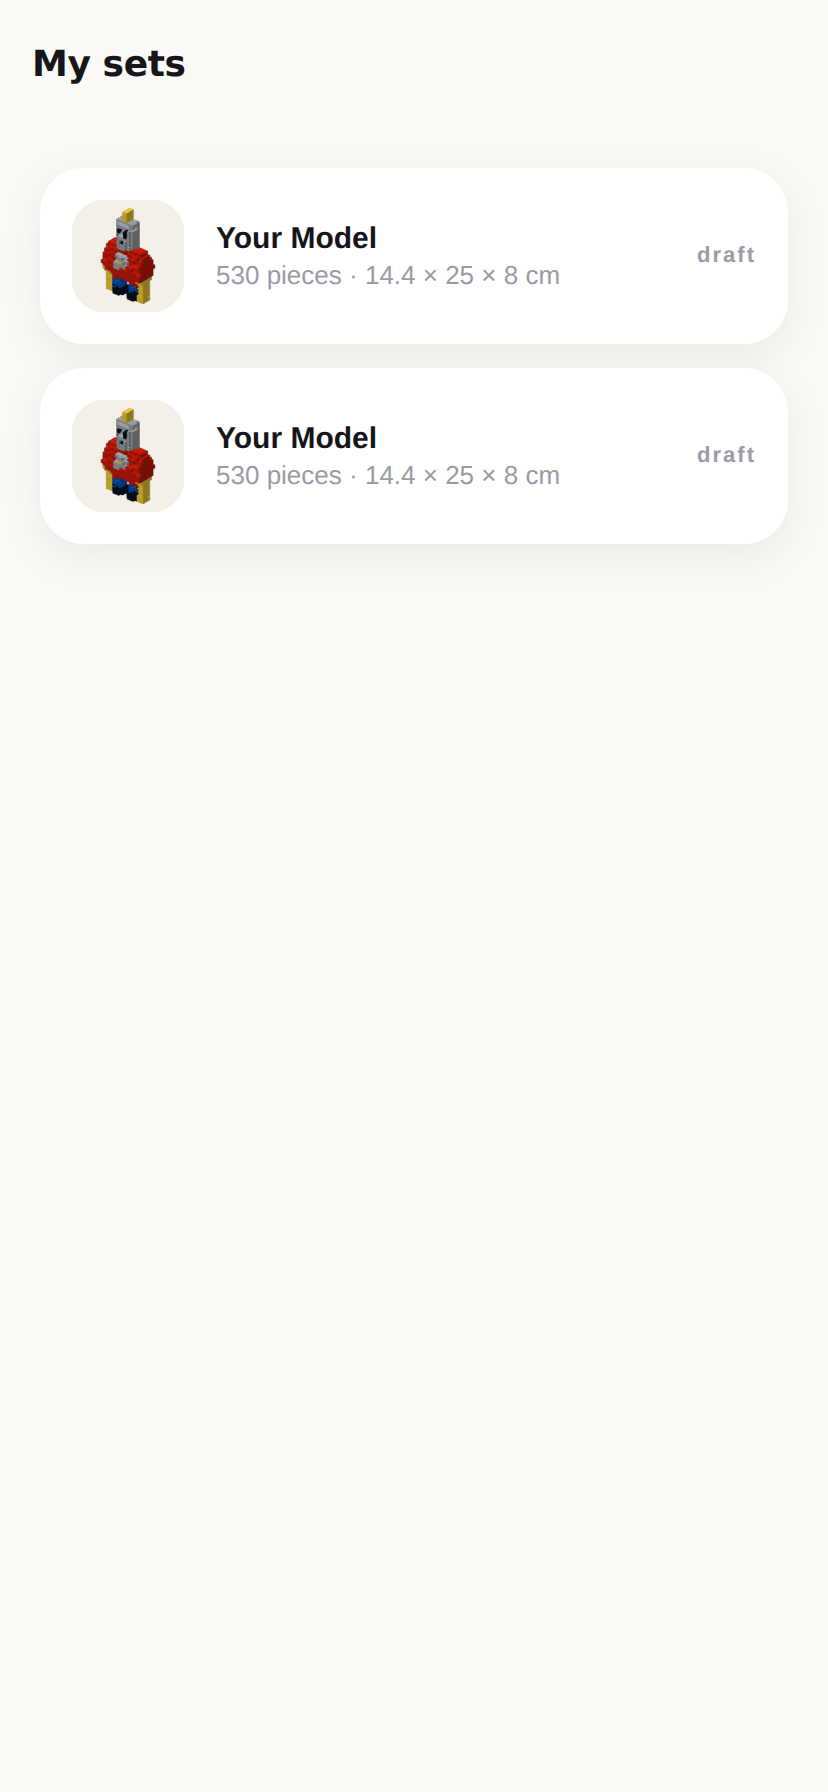
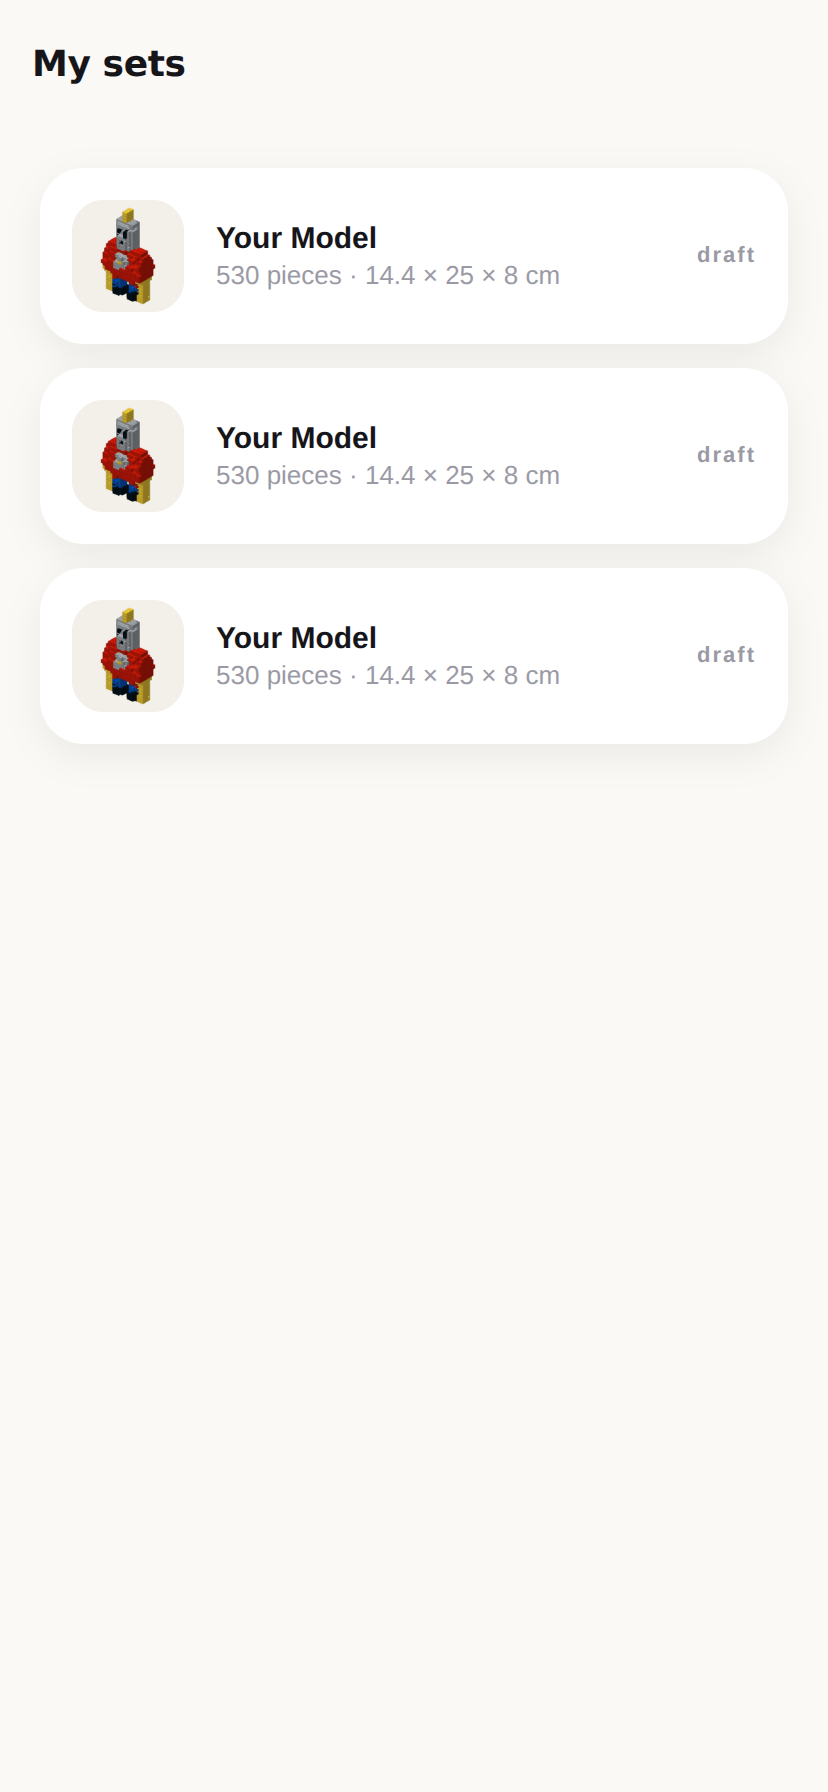
Find the API from a phone without editing a config file
Scanning the QR code with Expo Go put the app on a device where 127.0.0.1 is
the phone itself, so every screen said it could not reach BrickSnap and the
fix was to edit app.json and restart. That is a poor first five minutes for
the one way most people will actually run this.

Expo already says which machine served the bundle. When the configured host
is a loopback one and the app is not on that machine, the API is looked for
on the development machine at the same port. An explicit LAN or public
address is never touched, and web is unchanged.

Claude-Session: https://claude.ai/code/session_01DN3ASz877QidN4x2vff69y

Changed region(s): [[0.2717, 0.3438, 0.4529, 0.4062], [0.1208, 0.3438, 0.1812, 0.4062], [0.8454, 0.3438, 0.9058, 0.375]]

diff --git a/app/src/api/client.ts b/app/src/api/client.ts
@@ -10,8 +10,40 @@
 import { Platform } from 'react-native';
 import Constants from 'expo-constants';
 
-const BASE: string =
-  (Constants.expoConfig?.extra as any)?.apiUrl ?? 'http://127.0.0.1:8000';
+/**
+ * Where the server is.
+ *
+ * `extra.apiUrl` is the answer, except for the case that matters most: a
+ * phone running the app from Expo Go. There `127.0.0.1` is the phone itself,
+ * so every screen reports it cannot reach BrickSnap and the fix is to edit a
+ * JSON file and restart -- which is a poor first five minutes.
+ *
+ * Expo already tells the app which machine served the bundle, so when the
+ * configured host is a loopback one and we are not on that machine, the API
+ * is looked for on the development machine at the same port instead. An
+ * explicit LAN or public address is always left alone.
+ */
+function apiBase(): string {
+  const configured =
+    (Constants.expoConfig?.extra as any)?.apiUrl ?? 'http://127.0.0.1:8000';
+  if (Platform.OS === 'web') return configured;
+
+  const loopback = /^https?:\/\/(127\.0\.0\.1|localhost|0\.0\.0\.0)(:|\/|$)/;
+  if (!loopback.test(configured)) return configured;
+
+  // "192.168.1.20:8081" while running from a development server.
+  const hostUri =
+    (Constants.expoConfig as any)?.hostUri ??
+    (Constants as any)?.expoGoConfig?.debuggerHost ??
+    '';
+  const host = String(hostUri).split('/')[0].split(':')[0];
+  if (!host || loopback.test(`http://${host}`)) return configured;
+
+  const port = configured.split(':')[2] ?? '8000';
+  return `${configured.split('://')[0]}://${host}:${port}`;
+}
+
+const BASE: string = apiBase();
 
 export class ApiError extends Error {
   status: number;

diff --git a/README.md b/README.md
@@ -32,10 +32,11 @@ npx expo start
 phone. `npx expo start --web` runs the same app in a browser, which is how the
 screenshots below were taken.
 
-The app reads the API's address from `extra.apiUrl` in `app/app.json`. On a
-physical device, change `127.0.0.1` to your machine's LAN address, or the app
-will look for the API on the phone itself and every screen will say it cannot
-reach BrickSnap.
+The app reads the API's address from `extra.apiUrl` in `app/app.json`. If that
+is a loopback address and the app is running on a phone, it looks for the API
+on the machine that served the bundle instead, at the same port — so Expo Go
+works without editing anything. Point `extra.apiUrl` at a real host to
+override that.
 
 ## What it looks like
 
